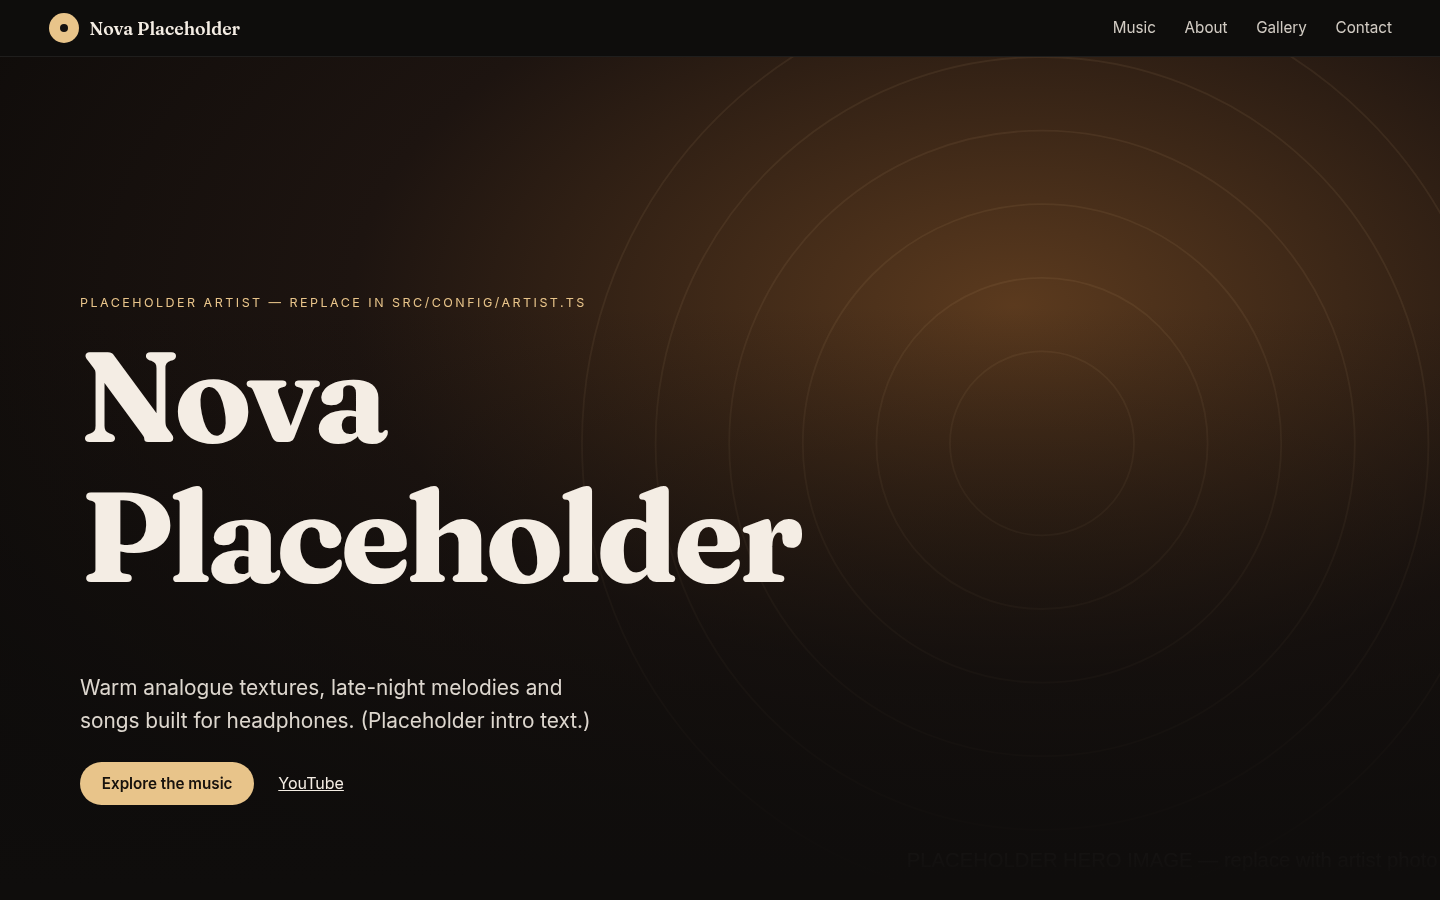
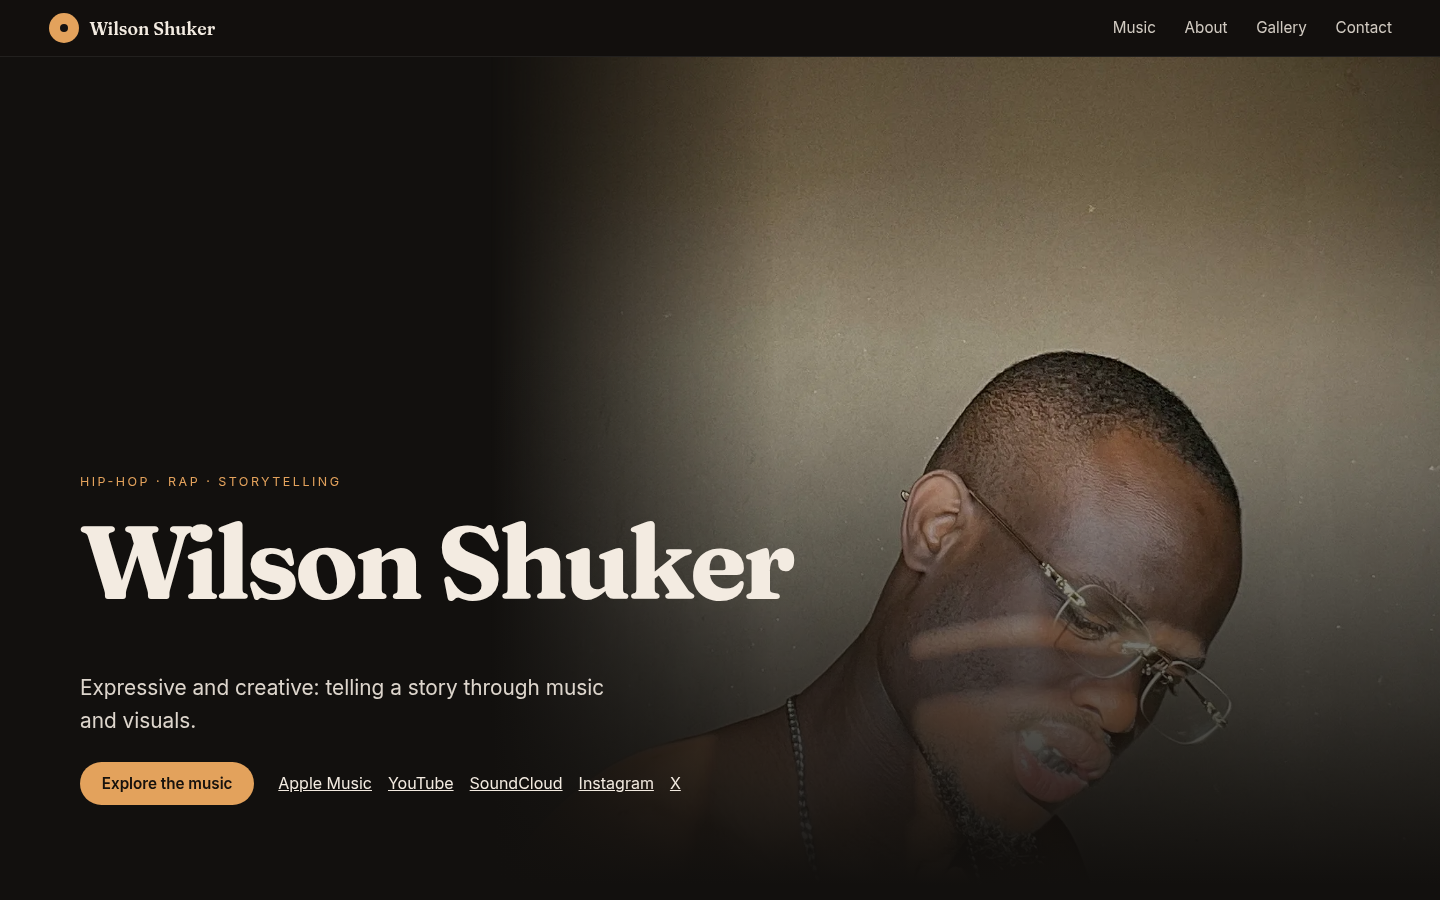
Customise for Wilson Shuker: verified links, real song list, graded photos, palette, SEO

diff --git a/src/config/artist.ts b/src/config/artist.ts
@@ -1,57 +1,63 @@
 import type { ArtistConfig } from '../types';
 
 /**
- * CENTRAL ARTIST CONFIGURATION
- * Everything artist-specific lives here (plus src/data/songs.ts).
- * All values below are PLACEHOLDERS — replace with the artist's real, authorised content.
+ * CENTRAL ARTIST CONFIGURATION — Wilson Shuker
+ * Links below were checked on 23 Oct 2026 and resolve to profiles named "Wilson Shuker".
+ * The biography is a DRAFT written only from public profile text. Wilson should review/replace it.
  */
 export const artist: ArtistConfig = {
-  name: 'Nova Placeholder',
-  tagline: 'Placeholder artist — replace in src/config/artist.ts',
+  name: 'Wilson Shuker',
+  tagline: 'Hip-hop · rap · storytelling',
   logo: '/images/logo.svg',
-  heroImage: '/images/hero.svg',
-  profileImage: '/images/profile.svg',
-  shortIntro:
-    'Warm analogue textures, late-night melodies and songs built for headphones. (Placeholder intro text.)',
+  heroImage: '/images/wilson/hero-desktop.webp',
+  heroImageMobile: '/images/wilson/hero-mobile.webp',
+  heroFocus: '40% 40%',
+  profileImage: '/images/wilson/profile.webp',
+  shortIntro: 'Expressive and creative: telling a story through music and visuals.',
   biography: [
-    'This is placeholder biography copy. Replace it with the artist’s own story: where they come from, how they make music and what they stand for.',
-    'Keep it to two or three short paragraphs. Press quotes, milestones and collaborators work well here.',
+    // DRAFT — based only on Wilson’s public YouTube “About” text and his Apple Music listing (Hip-Hop/Rap). Please replace with his own words.
+    'Wilson Shuker is an independent hip-hop and rap artist who describes himself as an “International Nkinga” and an expressive, creative storyteller, through music and through visuals.',
+    'His 2026 singles “Nsimbi Yamahumusha” and “Feel-A” are out on Apple Music. His YouTube channel carries freestyles and performance videos such as “Hold Tight”, “The Most High” and “Soulless”.',
   ],
+  // Palette taken by eye from the supplied photos: warm wall/sunlight ambers and the blue of his shirt.
   colors: {
-    background: '#0f0d0c',
-    surface: '#1b1714',
-    text: '#f4ede4',
-    muted: '#b3a698',
-    accent: '#e8c48a',
-    accent2: '#c2410c',
+    background: '#12100e',
+    surface: '#1f1a16',
+    text: '#f3ebe1',
+    muted: '#b9a897',
+    accent: '#e3a25c',
+    accent2: '#2f6fd6',
   },
   fonts: {
     display: '"Fraunces", Georgia, serif',
     body: '"Inter", system-ui, -apple-system, Segoe UI, Roboto, sans-serif',
-    // Optional: a stylesheet URL for web fonts. Leave empty to use system fonts only.
     googleFontsHref: '',
   },
-  // Only links with a non-empty URL are rendered.
+  // Only links with a non-empty URL are rendered. TikTok could not be verified, so it is left empty.
   socials: [
-    { label: 'Instagram', url: '' },
-    { label: 'TikTok', url: '' },
-    { label: 'YouTube', url: 'https://www.youtube.com/@example' /* EXAMPLE ONLY — replace */ },
+    { label: 'Apple Music', url: 'https://music.apple.com/us/artist/wilson-shuker/1896717690' },
+    { label: 'YouTube', url: 'https://www.youtube.com/@wilsonshuker' },
+    { label: 'SoundCloud', url: 'https://soundcloud.com/wilsonshuker' },
+    { label: 'Instagram', url: 'https://www.instagram.com/wilsonshuker/' },
+    { label: 'X', url: 'https://x.com/wilsonshuker' },
+    { label: 'Spotify', url: '' }, // not verified yet: add his Spotify artist URL
+    { label: 'TikTok', url: '' }, // not verified yet
   ],
   gallery: [
-    { src: '/images/gallery-1.svg', alt: 'Placeholder gallery image 1' },
-    { src: '/images/gallery-2.svg', alt: 'Placeholder gallery image 2' },
-    { src: '/images/gallery-3.svg', alt: 'Placeholder gallery image 3' },
+    { src: '/images/wilson/gallery-portrait.webp', alt: 'Wilson Shuker in clear-rim glasses and a silver chain, warm sunlight across his face' },
+    { src: '/images/wilson/gallery-wilson-crop.webp', alt: 'Wilson Shuker in a blue and white shirt and green cap, seated outdoors' },
+    { src: '/images/wilson/gallery-group.webp', alt: 'Wilson Shuker with friends at an outdoor gathering' },
   ],
   contact: {
-    email: 'hello@example.com',
-    management: 'Placeholder Management Ltd.',
-    bookingEmail: 'booking@example.com',
+    // Email shown publicly on his YouTube channel. Confirm before launch.
+    email: 'wilsonshuker@gmail.com',
   },
   seo: {
-    title: 'Nova Placeholder — Official Website',
-    description: 'Official website of Nova Placeholder. Listen to previews, explore the music and connect.',
-    url: 'https://example.com',
-    image: '/images/hero.svg',
+    title: 'Wilson Shuker — Official Website',
+    description:
+      'Official website of Wilson Shuker, hip-hop and rap artist. Spin the CD wheel, hear previews and stream “Feel-A” and “Nsimbi Yamahumusha”.',
+    url: 'https://example.com', // TODO: replace with the live domain
+    image: '/images/wilson/hero-desktop.jpg',
   },
   previewSeconds: 30,
 };

diff --git a/src/data/songs.ts b/src/data/songs.ts
@@ -1,75 +1,81 @@
 import type { Song } from '../types';
 
 /**
- * SONG DATA — separate from components so it can later come from a CMS / database.
- * All entries are PLACEHOLDERS. Audio files are synthesised test tones, artwork is generated SVG.
- * Empty URL strings mean "not available": the matching button / preview is hidden or marked unavailable.
+ * SONG DATA — Wilson Shuker
+ * Titles, artwork and streaming URLs are real and were verified on 23 Oct 2026.
+ * Artwork: Apple Music covers for the two singles; YouTube video thumbnails for the rest.
+ *
+ * ⚠ PREVIEW AUDIO IS PLACEHOLDER: the files in /public/audio are synthesised test tones, NOT Wilson’s music.
+ * Swap in authorised 30s preview clips that Wilson supplies, or set previewUrl to "" to show "Preview unavailable".
+ * Spotify / YouTube Music track URLs could not be verified, so they are left empty and hidden.
  */
+const PLACEHOLDER = 'Placeholder tone, not the real song';
+
 export const songs: Song[] = [
   {
-    id: 'song-001',
-    title: 'Placeholder One',
-    subtitle: 'Test tone · 45s file (tests 30s cap)',
-    artwork: '/images/cover-1.svg',
+    id: 'feel-a',
+    title: 'Feel-A',
+    subtitle: `Single · 2026 · ${PLACEHOLDER}`,
+    artwork: '/images/covers/feel-a.jpg',
     previewUrl: '/audio/placeholder-tone-1.mp3',
-    spotifyUrl: 'https://open.spotify.com/track/EXAMPLE-replace-me', // EXAMPLE ONLY — not a real track
-    appleMusicUrl: '',
+    spotifyUrl: '',
+    appleMusicUrl: 'https://music.apple.com/us/album/feel-a/6775227235?i=6775227238',
+    youtubeMusicUrl: '',
+    youtubeUrl: 'https://www.youtube.com/watch?v=B_MC6xUQREU',
+  },
+  {
+    id: 'nsimbi-yamahumusha',
+    title: 'Nsimbi Yamahumusha',
+    subtitle: `Single · 2026 · ${PLACEHOLDER}`,
+    artwork: '/images/covers/nsimbi-yamahumusha.jpg',
+    previewUrl: '/audio/placeholder-tone-3.mp3',
+    spotifyUrl: '',
+    appleMusicUrl: 'https://music.apple.com/us/album/nsimbi-yamahumusha/6770127252?i=6770127253',
     youtubeMusicUrl: '',
     youtubeUrl: '',
   },
   {
-    id: 'song-002',
-    title: 'Placeholder Two',
-    subtitle: 'Test tone · 12s file',
-    artwork: '/images/cover-2.svg',
+    id: 'hold-tight',
+    title: 'Hold Tight',
+    subtitle: `YouTube · ${PLACEHOLDER}`,
+    artwork: '/images/covers/hold-tight.jpg',
     previewUrl: '/audio/placeholder-tone-2.mp3',
     spotifyUrl: '',
     appleMusicUrl: '',
     youtubeMusicUrl: '',
-    youtubeUrl: '',
+    youtubeUrl: 'https://www.youtube.com/watch?v=Y2zcUAX5l2I',
   },
   {
-    id: 'song-003',
-    title: 'Placeholder Three',
-    subtitle: 'Test tone · 40s file',
-    artwork: '/images/cover-3.svg',
-    previewUrl: '/audio/placeholder-tone-3.mp3',
-    spotifyUrl: '',
-    appleMusicUrl: '',
-    youtubeMusicUrl: '',
-    youtubeUrl: '',
-  },
-  {
-    id: 'song-004',
-    title: 'No Preview Yet',
-    subtitle: 'No preview supplied (tests unavailable state)',
-    artwork: '/images/cover-4.svg',
-    previewUrl: '',
-    spotifyUrl: '',
-    appleMusicUrl: '',
-    youtubeMusicUrl: '',
-    youtubeUrl: 'https://www.youtube.com/watch?v=EXAMPLE', // EXAMPLE ONLY — replace
-  },
-  {
-    id: 'song-005',
-    title: 'Placeholder Five',
-    subtitle: 'Test tone · 20s file',
-    artwork: '/images/cover-5.svg',
+    id: 'the-most-high',
+    title: 'The Most High (Freestyle)',
+    subtitle: `Cut the Check · ${PLACEHOLDER}`,
+    artwork: '/images/covers/the-most-high.jpg',
     previewUrl: '/audio/placeholder-tone-4.mp3',
     spotifyUrl: '',
     appleMusicUrl: '',
     youtubeMusicUrl: '',
-    youtubeUrl: '',
+    youtubeUrl: 'https://www.youtube.com/watch?v=16KECARAFns',
   },
   {
-    id: 'song-006',
-    title: 'Placeholder Six',
-    subtitle: 'Reuses tone 1',
-    artwork: '/images/cover-6.svg',
-    previewUrl: '/audio/placeholder-tone-1.mp3',
+    id: 'emotional-song',
+    title: 'Emotional Song',
+    subtitle: 'YouTube · no preview supplied yet',
+    artwork: '/images/covers/emotional-song.jpg',
+    previewUrl: '',
     spotifyUrl: '',
     appleMusicUrl: '',
     youtubeMusicUrl: '',
-    youtubeUrl: '',
+    youtubeUrl: 'https://www.youtube.com/watch?v=Hzwsoiw7BrY',
+  },
+  {
+    id: 'soulless',
+    title: 'Soulless',
+    subtitle: 'Emotional freestyle · no preview supplied yet',
+    artwork: '/images/covers/soulless.jpg',
+    previewUrl: '',
+    spotifyUrl: '',
+    appleMusicUrl: '',
+    youtubeMusicUrl: '',
+    youtubeUrl: 'https://www.youtube.com/watch?v=puYD1D-q9sg',
   },
 ];

diff --git a/src/index.css b/src/index.css
@@ -34,15 +34,22 @@ h2 { font-size: clamp(2rem, 5vw, 3.2rem); letter-spacing: -.02em; }
 .btn-ghost:hover { border-color: var(--accent); color: var(--accent); }
 .btn-round { width: 44px; height: 44px; padding: 0; background: var(--surface); color: var(--text); border-color: #ffffff22; font-size: 1.5rem; }
 
-.hero { min-height: min(92vh, 860px); display: flex; align-items: flex-end; background-size: cover; background-position: center; position: relative; }
-.hero::after { content: ""; position: absolute; inset: 0; background: linear-gradient(180deg, transparent 30%, var(--bg)); }
+.hero { min-height: min(92vh, 860px); display: flex; align-items: flex-end; position: relative; overflow: hidden; }
+.hero-media { position: absolute; inset: 0; }
+.hero-media img { width: 100%; height: 100%; object-fit: cover; }
+.hero::after { content: ""; position: absolute; inset: 0; background: linear-gradient(180deg, transparent 35%, var(--bg)); }
+@media (min-width: 901px) {
+  .hero-media { left: 34%; }
+  .hero-media img { -webkit-mask: linear-gradient(90deg, transparent, #000 30%); mask: linear-gradient(90deg, transparent, #000 30%); }
+  .hero-inner { max-width: 46%; }
+}
 .hero-inner { position: relative; z-index: 1; padding: clamp(1.5rem, 6vw, 5rem); max-width: 900px; }
-.hero h1 { font-size: clamp(3rem, 12vw, 8rem); letter-spacing: -.04em; font-weight: 700; overflow-wrap: anywhere; }
+.hero h1 { font-size: clamp(3rem, 7.5vw, 6.5rem); letter-spacing: -.04em; font-weight: 700; overflow-wrap: break-word; }
 .eyebrow { text-transform: uppercase; letter-spacing: .2em; font-size: .78rem; color: var(--accent); }
 .lead { font-size: clamp(1.05rem, 2.2vw, 1.3rem); max-width: 40ch; color: var(--text); opacity: .9; }
 .hero-actions { display: flex; align-items: center; gap: 1.5rem; flex-wrap: wrap; margin-top: 1.5rem; }
-.socials { display: flex; gap: 1rem; list-style: none; padding: 0; margin: 0; }
-.socials a { color: var(--text); }
+.socials { display: flex; flex-wrap: wrap; gap: .4rem 1rem; list-style: none; padding: 0; margin: 0; }
+.socials a { color: var(--text); white-space: nowrap; }
 
 .section { padding: clamp(3rem, 8vw, 6rem) clamp(1rem, 4vw, 3rem); max-width: 1280px; margin: 0 auto; }
 .section-head { margin-bottom: 1rem; }
@@ -107,7 +114,7 @@ h2 { font-size: clamp(2rem, 5vw, 3.2rem); letter-spacing: -.02em; }
 .cassette-label .muted { color: #6b5f52; }
 .cassette-art { border-radius: 4px; flex: none; }
 .cassette-text { display: flex; flex-direction: column; min-width: 0; }
-.cassette-title { font-family: var(--font-display); font-size: 1.15rem; overflow-wrap: anywhere; }
+.cassette-title { font-family: var(--font-display); font-size: 1.15rem; overflow-wrap: break-word; }
 .cassette-window { margin: .7rem auto 0; width: 75%; height: 64px; background: #1b1714; border-radius: 30px; display: flex; align-items: center;
   justify-content: space-between; padding: 0 12px; position: relative; }
 .reel { width: 44px; height: 44px; border-radius: 50%; background: repeating-conic-gradient(#eee 0 20deg, #555 20deg 60deg); border: 6px solid #3a302a; }

diff --git a/src/App.tsx b/src/App.tsx
@@ -40,7 +40,11 @@ export default function App() {
       </header>
 
       <main id="main">
-        <section id="top" className="hero" style={{ backgroundImage: `url(${artist.heroImage})` }}>
+        <section id="top" className="hero">
+          <picture className="hero-media">
+            {artist.heroImageMobile && <source media="(max-width: 700px)" srcSet={artist.heroImageMobile} />}
+            <img src={artist.heroImage} alt={`${artist.name}`} fetchPriority="high" style={{ objectPosition: artist.heroFocus }} />
+          </picture>
           <div className="hero-inner">
             <p className="eyebrow">{artist.tagline}</p>
             <h1>{artist.name}</h1>
@@ -93,7 +97,7 @@ export default function App() {
         </section>
       </main>
       <footer className="site-footer">
-        <p className="muted small">© {new Date().getFullYear()} {artist.name}. Previews used with permission.</p>
+        <p className="muted small">© {new Date().getFullYear()} {artist.name}. Preview clips are placeholders until authorised previews are supplied.</p>
       </footer>
     </>
   );

diff --git a/src/types.ts b/src/types.ts
@@ -22,13 +22,17 @@ export interface ArtistConfig {
   tagline: string;
   logo: string;
   heroImage: string;
+  /** Optional portrait-orientation crop used on narrow screens. */
+  heroImageMobile?: string;
+  /** CSS object-position for the hero photo, e.g. '40% 30%'. */
+  heroFocus?: string;
   profileImage: string;
   shortIntro: string;
   biography: string[];
   colors: { background: string; surface: string; text: string; muted: string; accent: string; accent2: string };
   fonts: { display: string; body: string; googleFontsHref?: string };
   socials: SocialLink[];
-  gallery: { src: string; alt: string }[];
+  gallery: { src: string; alt: string; caption?: string }[];
   contact: { email: string; management?: string; bookingEmail?: string };
   seo: { title: string; description: string; url: string; image: string };
   /** Maximum preview length in seconds (hard cap, never above 30). */

diff --git a/README.md b/README.md
@@ -16,6 +16,26 @@ npx playwright install chromium   # once
 npm run build && npm run e2e      # headless checks + screenshots/ (takes ~45s; waits for a real 30s cap)
 ```
 
+## Current customisation: Wilson Shuker
+
+This copy is set up for **Wilson Shuker**. Profiles and links were checked on 23 Oct 2026:
+
+- Apple Music artist: https://music.apple.com/us/artist/wilson-shuker/1896717690 (singles "Feel-A" and "Nsimbi Yamahumusha", 2026)
+- YouTube: https://www.youtube.com/@wilsonshuker
+- SoundCloud: https://soundcloud.com/wilsonshuker
+- Instagram: https://www.instagram.com/wilsonshuker/ (the profile name matches; the bio could not be read)
+- X: https://x.com/wilsonshuker (display @WilsonShuker_SA)
+- **Not verified, left empty:** Spotify, YouTube Music (track/topic pages), TikTok.
+
+**Wilson must still supply:**
+- Authorised **30-second preview clips** for each song. The current files in `public/audio/` are synthesised test tones, labelled in the UI as "Placeholder tone, not the real song".
+- His Spotify / YouTube Music / TikTok URLs.
+- A reviewed bio. The current text is a draft based only on his public profiles.
+- A confirmed contact email. The one used is shown publicly on his YouTube channel.
+- The live domain for `artist.seo.url`.
+
+Photos were supplied by the user (originals are in `photo-src/`). Edits: crops for the desktop hero, mobile hero, profile and gallery; a light warm grade; slight contrast and saturation; fine grain; a soft vignette. Exports are WebP and JPG. His face and identity were not altered and no AI generation was used. Cover art comes from Apple Music (the two singles) and his YouTube video thumbnails (the rest).
+
 ## What the artist must supply
 
 Every asset that ships in this repo is a **placeholder**. The audio files are synthesised sine tones and the images are generated SVGs. Replace them with:
